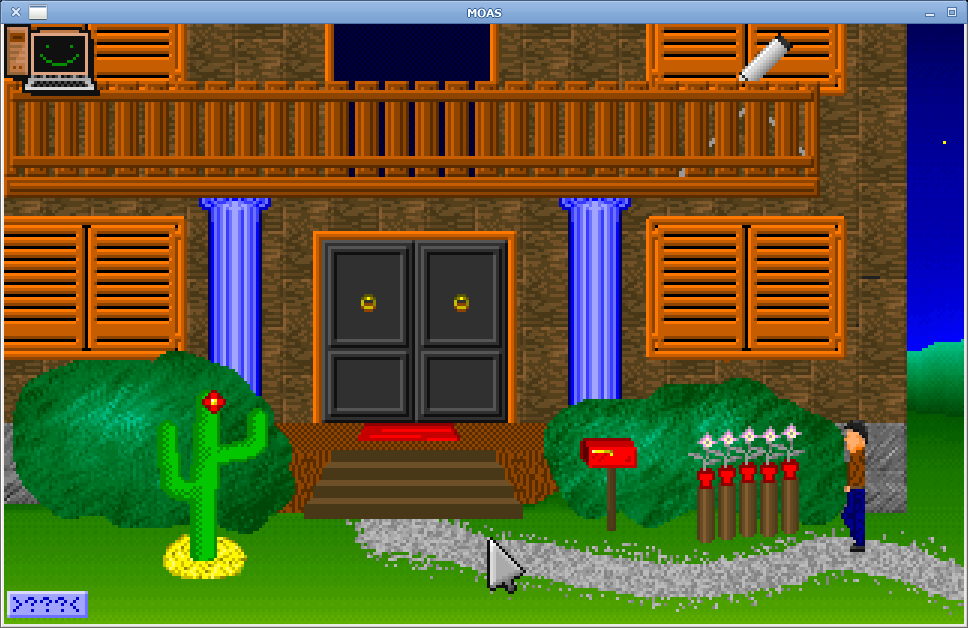
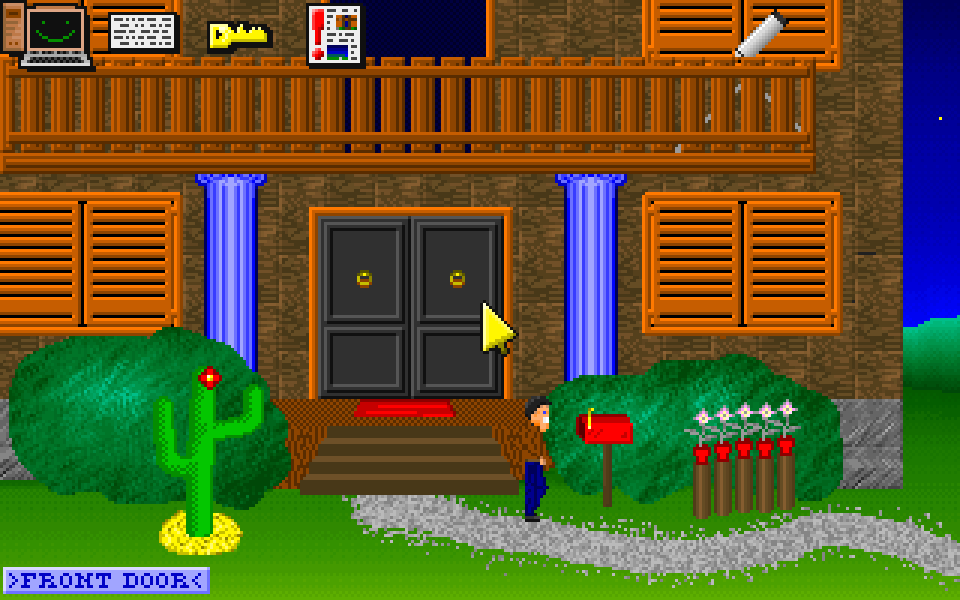
Borderless screenshot, portrait controls shot, Android 5.1, controls
- Re-take the hero screenshot without window decoration (English)
- Add portrait touch-controls screenshot next to the Controls section
- Android requirement is 5.1 (minSdk 22), not 7
- Document F5/F7, Esc/Shift, F12 options (English translation), Alt+Q

diff --git a/index.html b/index.html
@@ -140,6 +140,47 @@
       font-weight: normal;
     }
 
+    .shot-row {
+      display: flex;
+      gap: 1.25rem;
+      align-items: flex-start;
+      margin: 0.75rem 0 0;
+    }
+
+    .shot-row img {
+      flex: 0 0 auto;
+      width: 180px;
+      height: auto;
+      border-radius: 10px;
+      border: 3px solid #2a3140;
+      background: #000;
+    }
+
+    .shot-row p {
+      margin: 0;
+      color: #444;
+      font-size: 0.95rem;
+    }
+
+    @media (max-width: 520px) {
+      .shot-row {
+        flex-direction: column;
+        align-items: center;
+      }
+    }
+
+    kbd {
+      display: inline-block;
+      padding: 0 0.35em;
+      border: 1px solid #c8cdd8;
+      border-bottom-width: 2px;
+      border-radius: 4px;
+      background: #f4f5f8;
+      font-family: inherit;
+      font-size: 0.85em;
+      line-height: 1.4;
+    }
+
     .version {
       color: #666;
       font-size: 0.85rem;
@@ -171,7 +212,8 @@
       <p class="tagline">Point-and-click adventure · MOAS engine</p>
     </header>
 
-    <img class="hero" src="images/screenshot.png" alt="Mänick Mänschion (SDL2 port)">
+    <img class="hero" src="images/screenshot.png" width="960" height="600"
+         alt="Mänick Mänschion: the front door of the mansion at night, with a cactus, a mailbox and the protagonist on the garden path">
 
     <div id="pagebody">
       <section>
@@ -180,6 +222,8 @@
           Original 320×200, 256-colour software graphics, packaged as
           WebAssembly with Emscripten (ASYNCIFY) and the full game data
           preloaded. Built with Nix from the same source as the native ports.
+          The game is German; an English translation can be switched on in the
+          options menu (<kbd>F12</kbd> or the <strong>MENU</strong> button).
         </p>
         <a class="play-btn" href="play/index.html">Play Mänick Mänschion (WASM)</a>
         <ul>
@@ -202,8 +246,8 @@
           </li>
           <li>
             <a href="downloads/moas.apk">Android (APK)</a>
-            <span class="note">Android 7 and later; touch overlay (USE / LOOK / walk), gamepads and keyboards.
-              Allow installing apps from your browser to install it.</span>
+            <span class="note">Android 5.1 and later; touch buttons in landscape and portrait,
+              gamepads and keyboards. Allow installing apps from your browser to install it.</span>
           </li>
           <li>
             <a href="downloads/r36s/moas.zip">R36S and other PortMaster handhelds</a>
@@ -248,14 +292,27 @@
           <li><strong>Mouse / touch</strong> — walk, examine, use (modes via overlay or keys)</li>
           <li><strong>Left click / tap</strong> — primary action (walk / use / look depending on mode)</li>
           <li><strong>Right click</strong> or mode buttons — USE / LOOK / inventory</li>
-          <li><strong>Esc</strong> — abort / menu (when armed)</li>
-          <li><strong>Gamepad</strong> — left stick or D-pad walk, right stick cursor, RT use, LT look, A skip, B/Start Esc</li>
+          <li><kbd>F5</kbd> / <kbd>F7</kbd> — save / load</li>
+          <li><kbd>Esc</kbd> — skip a cutscene (when the game allows it);
+            <kbd>Shift</kbd> — speed up speech</li>
+          <li><kbd>F12</kbd> — options: language (German / English), fullscreen,
+            touch buttons, game and speech speed, quit</li>
+          <li><kbd>Alt</kbd>+<kbd>Q</kbd> — quit</li>
+          <li><strong>Gamepad</strong> — left stick or D-pad walk, right stick cursor, RT use, LT look, A skip, B/Start Esc, Back options</li>
         </ul>
-        <p>
-          On touch screens and the WASM build, an overlay provides Save, Load,
-          USE and LOOK so the classic mouse workflow stays usable without a
-          pointer.
-        </p>
+        <div class="shot-row">
+          <img src="images/screenshot-portrait.png" width="720" height="1280" loading="lazy"
+               alt="Android in portrait: the game at full width with two rows of touch buttons below it">
+          <p>
+            On Android and in the browser, touch buttons provide Save, Load,
+            Esc, Skip, USE / LOOK mode and the options menu, so the classic mouse
+            workflow works without a pointer. In landscape they sit beside the
+            picture; in portrait the picture takes the full width and the buttons
+            move underneath. Save and Load are greyed out while the game would
+            ignore them (cutscenes, dialogues). Progress is kept automatically
+            when you leave the app and restored on the next start.
+          </p>
+        </div>
       </section>
     </div>
 

diff --git a/TODO.md b/TODO.md
@@ -18,6 +18,14 @@
 - scripts/serve.sh for local preview
 - AGENTS.md, README.md, .gitignore
 
+## Page update (2026-10-21)
+- Screenshot re-taken from the SDL port without window decoration (960×600,
+  English, front door); same image in the game's `docs/screenshot.png`.
+- Added a portrait touch-controls screenshot (`images/screenshot-portrait.png`)
+  next to the Controls text.
+- Android requirement corrected to 5.1 (minSdk 22 in the game flake).
+- Controls: F5/F7, Esc/Shift, F12 options (English translation), Alt+Q.
+
 ## Next
 - Apply bundle to the empty github.io repo, push master.
 - Generate flake.lock (`nix flake lock` or first `nix build`) on a machine
